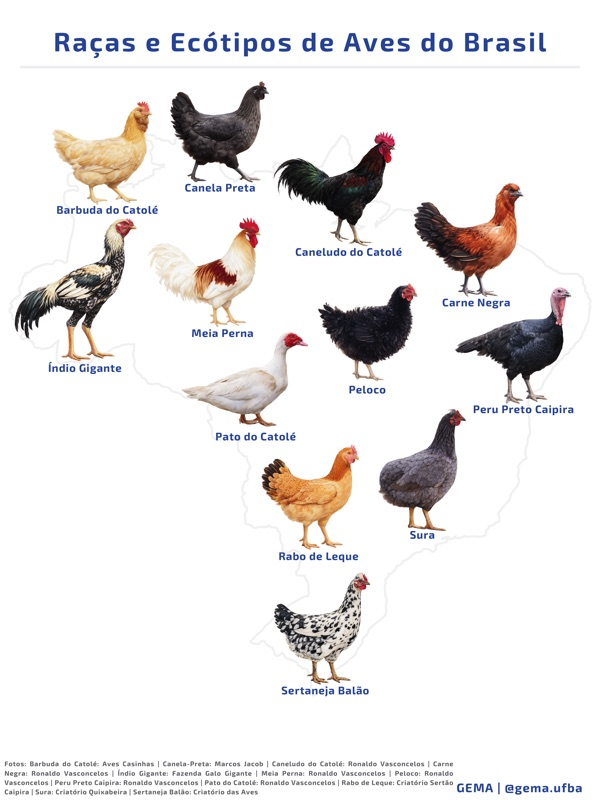
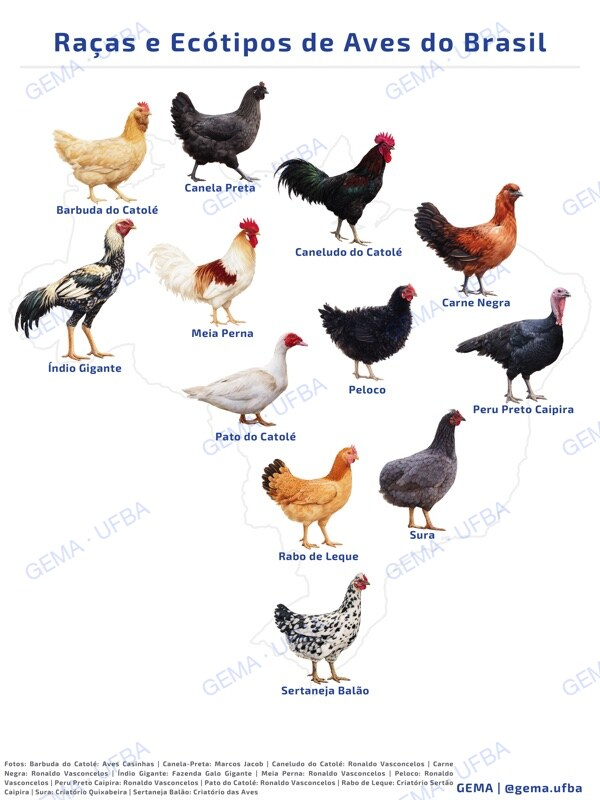
Pôsteres: marca d'água anti-print gravada nos arquivos servidos
- Padrão diagonal "GEMA · UFBA" (azul da marca, 17% de opacidade, células
  escalonadas de 360x240) composto nos 9 JPEGs de preview; WebPs
  regenerados a partir das versões marcadas
- Por estar no próprio arquivo, a marca aparece em screenshot, salvar
  imagem e acesso direto à URL — o preview segue apresentável, mas a
  impressão fica inutilizada; o PDF limpo continua sendo o produto
- scripts/aplicar-marca-dagua.sh para pôsteres futuros (uma aplicação
  por imagem; gera o .webp junto)
- Originais limpos preservados no histórico do git (commit a4b54ed)

diff --git a/PLANO_DE_MELHORIA.md b/PLANO_DE_MELHORIA.md
@@ -120,6 +120,12 @@ Versão em inglês sem plugins (o builder do Pages não permite jekyll-polyglot)
 **P3 — Guardas:**
 - ✅ Hook `pre-push` (`.githooks/pre-push`): build do Jekyll + bloqueio de Liquid literal em `.md` não-excluído — torna o incidente do PLANO estruturalmente impossível. Ativar: `git config core.hooksPath .githooks`
 
+## Marca d'água nos pôsteres (jun/2026)
+
+- ✅ Padrão diagonal "GEMA · UFBA" (azul da marca, 17%, escalonado) gravado **nos próprios arquivos** servidos (JPEG e WebP) — aparece em screenshot, clique-direito-salvar e acesso direto à URL; o preview continua apresentável, mas a impressão fica inutilizada
+- ✅ Script repetível `scripts/aplicar-marca-dagua.sh` para pôsteres futuros (aplicar **uma única vez** por imagem; regenera o .webp junto)
+- ℹ Originais limpos: histórico do git (até o commit anterior à marca) e os PDFs-fonte do grupo
+
 ## Próximos passos sugeridos
 
 - Traduzir o conteúdo dos dados para inglês preenchendo os campos `_en` no painel (hoje caem no fallback PT)

diff --git a/.claude/CLAUDE.md b/.claude/CLAUDE.md
@@ -21,6 +21,7 @@ _data/
 assets/css/style.scss        # CSS único minificado (Sass compressed) — :root + html.dark + CSS de pôsteres/notícias
 assets/js/                   # JS compartilhado PT/EN: poster-lightbox.js, noticia-modal.js (textos via data-*)
 .githooks/pre-push           # Guarda: build + bloqueia Liquid literal em .md (ativar: git config core.hooksPath .githooks)
+scripts/aplicar-marca-dagua.sh # Marca d'água GEMA·UFBA em pôster novo (rodar 1x por imagem; gera o .webp junto)
 assets/img/professores/      # Fotos dos professores
 assets/img/posteres/         # Miniaturas dos pôsteres (<id>.jpg)
 logo/logo-gema.svg           # Logo oficial
